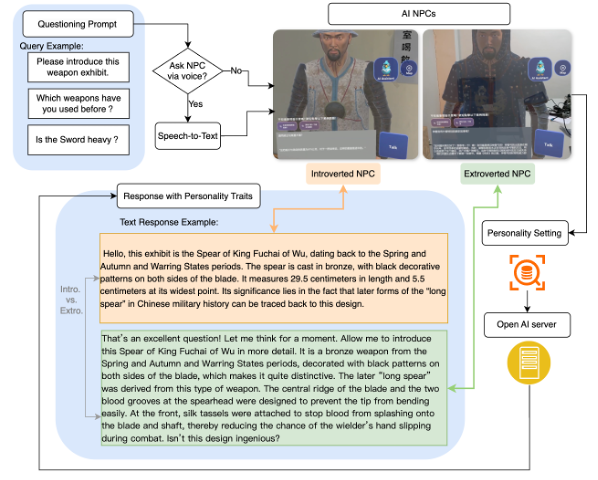
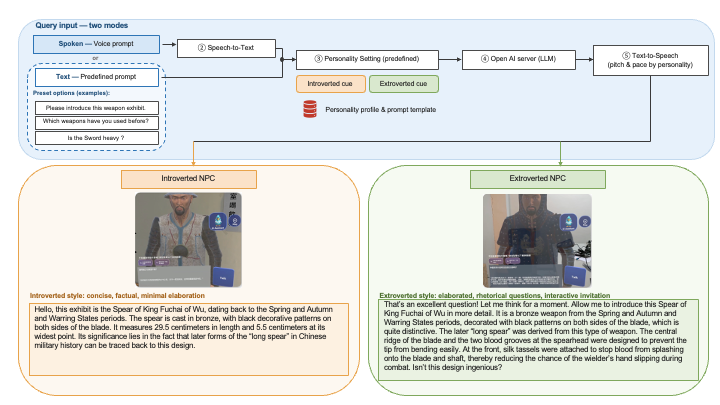
figure

diff --git a/cas-sc-template.tex b/cas-sc-template.tex
@@ -328,7 +328,7 @@ For the vocal channel, personality differences were implemented directly through
 
 \begin{figure}
     \centering
-    \includegraphics[width=0.6\linewidth]{figs/flow.png}
+    \includegraphics[width=0.9\linewidth]{figs/flow.png}
     \caption{Example dialogue flow and response differences between extroverted and introverted AI NPCs}
     \label{fig:flow}
 \end{figure}
@@ -573,11 +573,11 @@ Effect size ($r$)          & 0.6139  & 0.6301  & 0.5251  \\
 
 \subsection{Discussion}
 
-This study showed that AI NPC personality influenced users' subjective perceptions and visual-attention behavior in individual MR interaction, but its effects were not consistent across all outcome measures. The extroverted NPC elicited significantly higher perceived social presence and intention to use, and also attracted greater overall visual attention in terms of total gaze duration and gaze count. In contrast, the introverted NPC elicited longer average gaze durations, suggesting a different pattern of sustained visual attention. Together, these findings indicate that socially expressive personality cues can enhance users' subjective perceptions of an AI NPC, while their behavioral effects are more selective. The similarity-attraction analysis further suggested that extroverted participants tended to respond more favorably to the extroverted NPC, providing partial support for the role of user-agent personality similarity.
+The single-user study showed a clear advantage of the extroverted AI NPC in subjective evaluations. Participants reported significantly higher social presence, intention to use, and satisfaction for the extroverted NPC, suggesting that socially expressive personality cues can enhance users' perceived quality of interaction when the AI NPC serves as the primary social partner.
 
-These findings have two implications for understanding personality in human-AI interaction. First, perceived social presence, visual attention, and behavioral engagement appear to reflect different aspects of users' responses to AI NPCs, rather than a single unified effect. An NPC that is perceived as more socially present may attract more attention without necessarily eliciting more active interaction. Second, the effects of AI personality appear to depend not only on the agent's expressed traits but also on the characteristics of the user, suggesting that personality effects are relational rather than purely agent-driven.
+The gaze results further suggest that personality influenced different forms of visual attention. The extroverted NPC attracted greater total gaze duration and more frequent gazes, whereas the introverted NPC elicited longer average gaze duration per gaze. This pattern may reflect a distinction between \emph{social salience} and \emph{sustained processing}: extroverted cues may repeatedly attract users' attention, while the less expressive introverted NPC may lead to more sustained attention once users look toward it. However, these interpretations should be treated cautiously because gaze measures alone cannot establish the underlying cognitive process.
 
-Importantly, this study examined users interacting with the AI NPCs individually, where the NPC served as the primary social interaction partner. In most museum experiences, however, users must also attend to and coordinate with another person. The presence of a partner may therefore alter how attention and social engagement are distributed between the AI and human interaction partners. This motivated the subsequent dyadic studies, which examined whether personality effects observed at the individual level would persist, weaken, or take different forms when the AI NPC became part of a broader human-human-AI interaction.
+Importantly, the extroverted NPC did not elicit significantly more interaction turns, indicating that greater perceived social presence and visual attention do not necessarily translate into more active conversational behavior. Similarly, the similarity--attraction pattern was asymmetric: extroverted participants tended to prefer the personality-matched extroverted NPC, whereas introverted participants did not consistently prefer the introverted NPC. Thus, the findings suggest that the social appeal of extroverted cues may sometimes outweigh simple personality matching in individual human--AI interaction.
 
 \section{Dyadic MR Studies}\label{sec:dyadic}
 
@@ -845,7 +845,7 @@ Across the full dyadic sample ($N=28$), participants generally evaluated the ext
 
 \begin{table*}[t]
 \centering
-\caption{Summary Statistics and Key Non-Parametric Test Results for AI Evaluation by Pair Familiarity}
+\caption{Summary Statistics and Key Non-Parametric Test Results for AI Evaluation by Pair Acquaintance}
 \label{tab:pair_acquaintance_construct_results}
 
 \begin{subtable}[t]{0.48\textwidth}
@@ -1167,9 +1167,11 @@ Regarding visual attention, Table~\ref{tab:similarity_gaze} presents a similar a
 
 \subsubsection{Discussion}
 
-The stronger personality effect observed among unacquainted pairs may reflect differences in how acquainted and unacquainted pairs engaged with the NPC during the shared experience. Acquainted pairs may have relied more on their existing rapport and coordination habits, making the NPC's personality less central to their evaluation. By contrast, unacquainted pairs may have benefited more from the extroverted NPC's proactive and expressive interaction style, which could have made the collaborative experience feel easier and more engaging. Rather than indicating a uniform advantage of extroversion, this pattern suggests that the value of NPC personality cues may depend on the social context of the dyad.
+The dyadic study suggests that the overall effect of AI NPC personality became weaker when another human partner was present. Although the extroverted NPC retained a descriptive advantage, the differences were smaller than in the single-user study. This pattern suggests that personality cues become less dominant when users must distribute their attention and engagement across the NPC, their partner, and the collaborative task.
 
-The similarity-attraction effect was limited and context-dependent. Among acquainted pairs, extroverted participants showed some preference for personality-similar NPCs, particularly in satisfaction, whereas introverted participants did not exhibit the same pattern. No reliable similarity effect was observed among unacquainted pairs. Moreover, subjective preference was not reflected in gaze behavior, suggesting that personality similarity may influence evaluation without necessarily altering visual attention.
+Pair acquaintance further differentiated this effect. Acquainted pairs showed little difference between the two NPC personalities, whereas unacquainted pairs responded more favorably to the extroverted NPC, particularly in intention to use and satisfaction. One possible explanation is that acquainted pairs could rely on established rapport and coordination routines, whereas unacquainted pairs benefited more from the proactive and expressive behavior of the extroverted NPC. Personality effects may therefore depend on the broader social configuration rather than operating uniformly across dyads.
+
+The gaze results nevertheless showed that personality-related attention differences remained present: the extroverted NPC attracted more frequent gaze, while the introverted NPC elicited longer average gaze duration. However, these attentional differences did not consistently translate into subjective evaluations. Similarity--attraction effects were also weak and inconsistent across acquaintance conditions. Together, these findings suggest that in collaborative MR interaction, effective support for the shared task and the existing relationship between users may be more consequential than personality matching alone.
 
 \section{Cross-Study Results}
 
